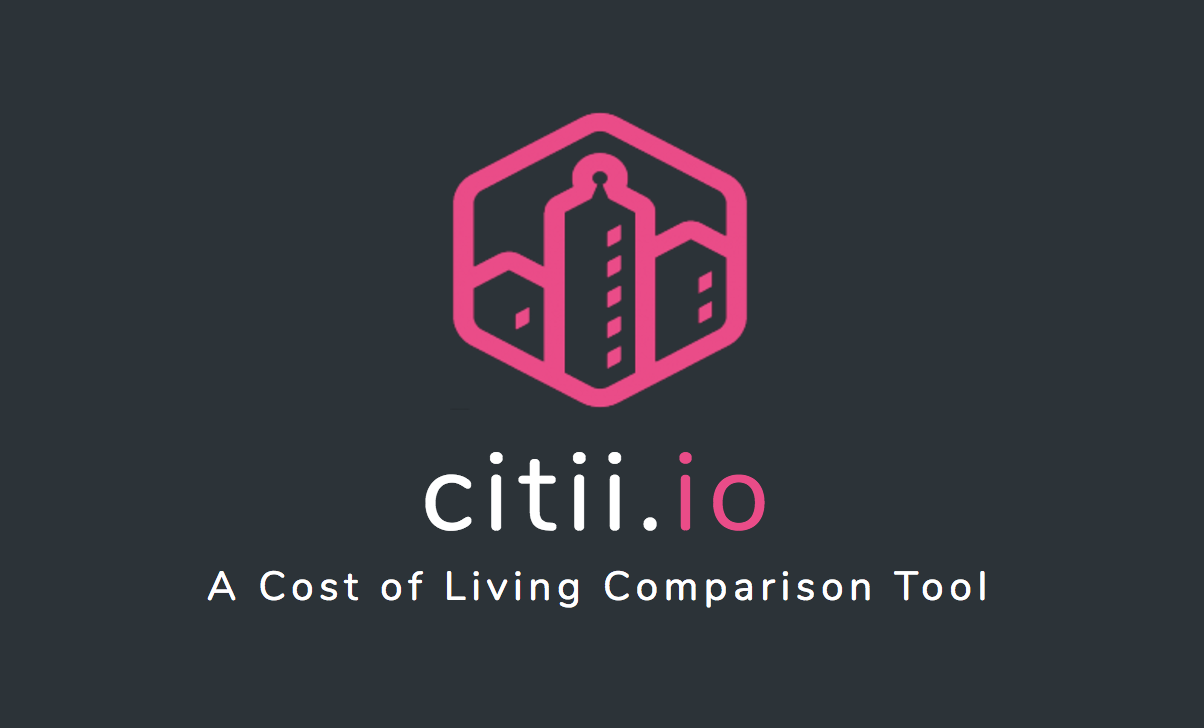
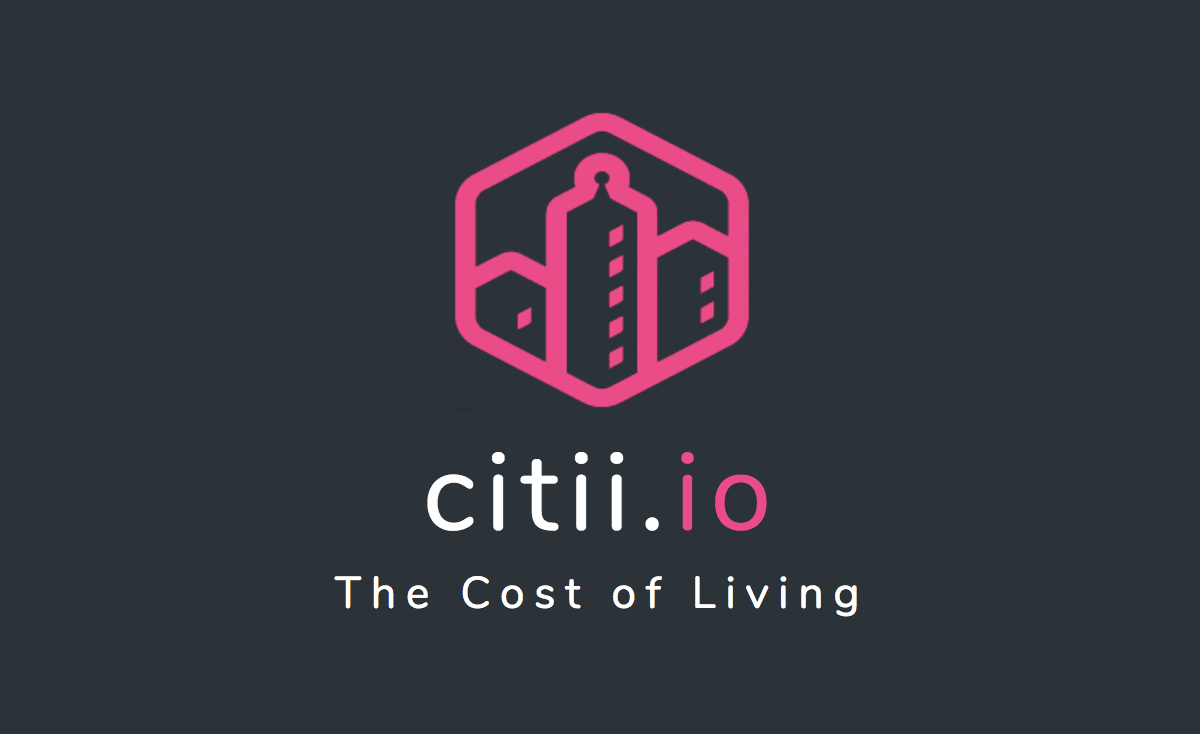
Minor edit to open tag image.

Changed region(s): [[0.37, 0.1511, 0.6475, 0.5742], [0.1542, 0.7857, 0.8325, 0.8462], [0.3392, 0.6044, 0.6475, 0.7253]]

diff --git a/public/index.html b/public/index.html
@@ -4,8 +4,8 @@
     <meta charset="utf-8">
     <meta name="viewport" content="width=device-width, initial-scale=1">
 
-    <meta prefix="og: http://ogp.me/ns#" property="og:title" content="Citii - Comparing the Cost of Living Worldwide"/>
-    <meta prefix="og: http://ogp.me/ns#" property="og:description" content="A ReactJS app that helps you compare and analyze the cost of living between different cities worldwide."/>
+    <meta prefix="og: http://ogp.me/ns#" property="og:title" content="Comparing the Cost of Living Worldwide | Citii"/>
+    <meta prefix="og: http://ogp.me/ns#" property="og:description" content="An app that helps you compare and analyze the cost of living between different cities worldwide."/>
     <meta prefix="og: http://ogp.me/ns#" property="og:image" content="https://www.citii.io/img/meta_landing_screen.png" />
     <meta prefix="og: http://ogp.me/ns#" property="og:url" content="https://www.citii.io" />
     <meta prefix="og: http://ogp.me/ns#" property="og:site_name" content="Citii"/>
